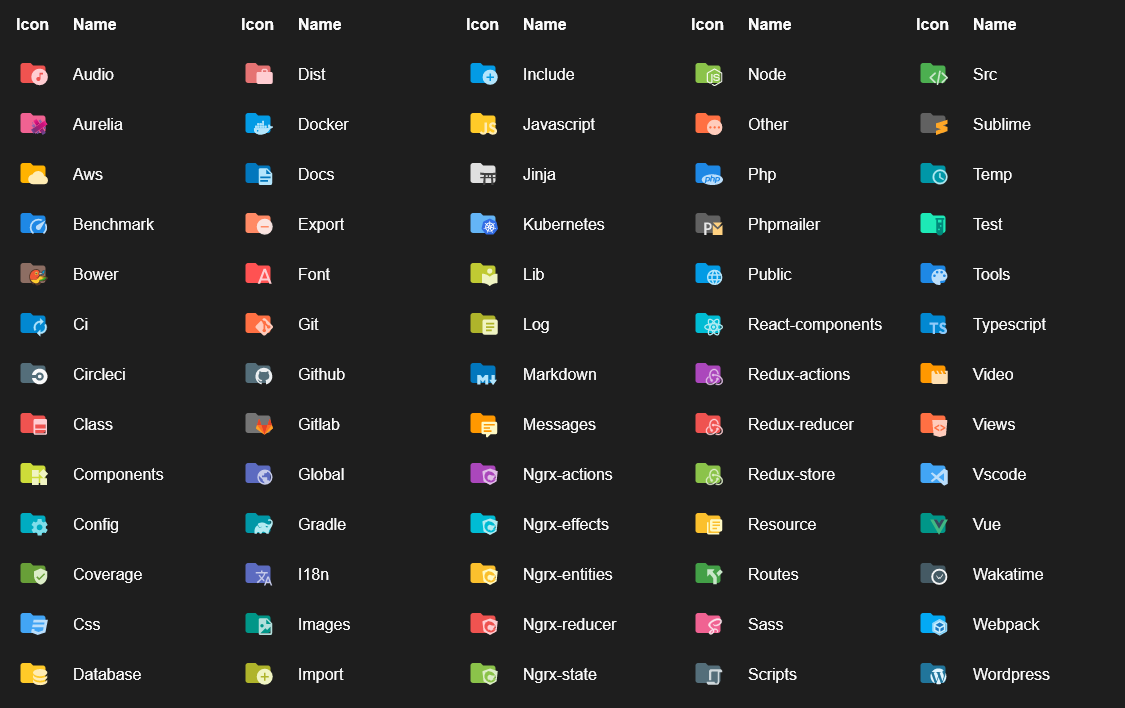
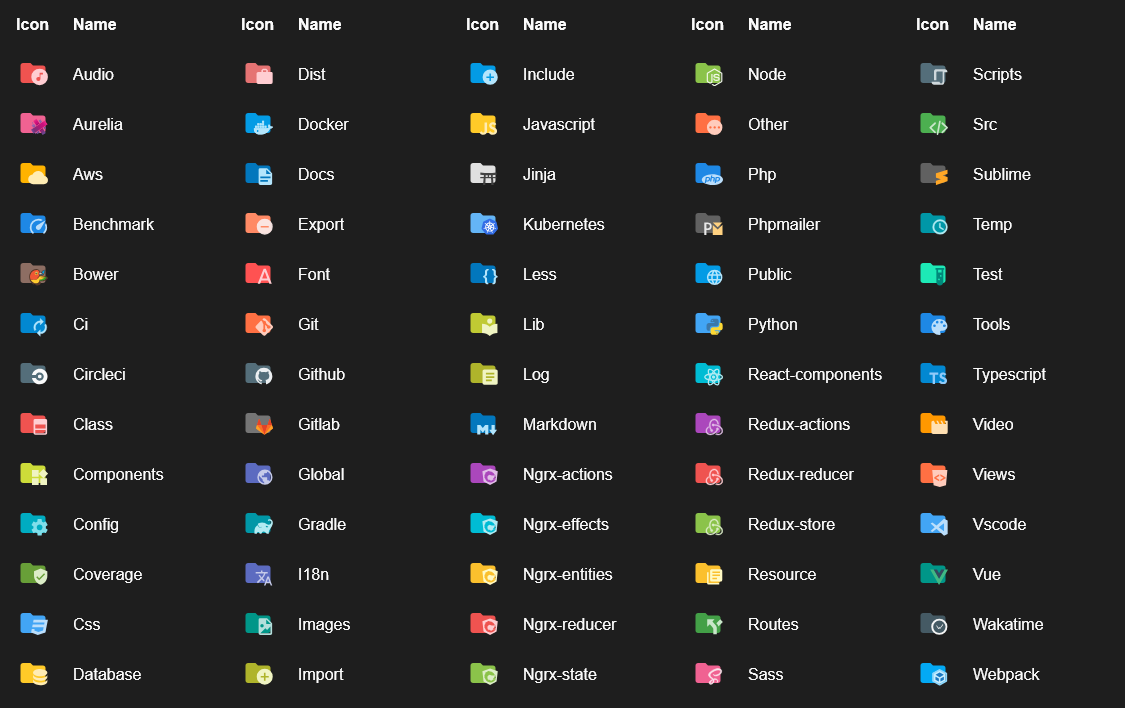
Release 3.3.0

diff --git a/scripts/preview/index.ts b/scripts/preview/index.ts
@@ -25,5 +25,5 @@ const folderThemes = filterDuplicates(folderIcons.map(theme => {
     return [].concat(...folders);
 }).reduce((a, b) => a.concat(b))).map(i => ({ iconName: i, label: i.replace('folder-', '') }));
 
-generatePreview('fileIcons', basicFileIcons, 5, ['key']);
-generatePreview('folderIcons', folderThemes, 5, ['folder', 'folder-expo']);
+generatePreview('fileIcons', basicFileIcons, 5, []);
+generatePreview('folderIcons', folderThemes, 5, ['folder', 'folder-expo', 'folder-messages']);

diff --git a/CHANGELOG.md b/CHANGELOG.md
@@ -1,4 +1,25 @@
 # Changelog
+## 3.3.0 (2018-04-08)
+### New icons
+- Processing (*.pde) ([@JotaroS](https://github.com/JotaroS) in [#229](https://github.com/PKief/vscode-material-icon-theme/pull/229))
+- Storybook ([issue #235](https://github.com/PKief/vscode-material-icon-theme/issues/235))
+- jest.teardown.js ([issue #230](https://github.com/PKief/vscode-material-icon-theme/issues/230))
+- less folder ([issue #207](https://github.com/PKief/vscode-material-icon-theme/issues/207))
+- wepy ([issue #226](https://github.com/PKief/vscode-material-icon-theme/issues/226))
+- META-INF folder
+- python folder
+- manifest.mf
+- xhtml
+
+### Updated icons
+- Vue.js
+- less
+
+### Other improvements
+- Fixed issue with settings change detection ([issue #225](https://github.com/PKief/vscode-material-icon-theme/issues/225))
+- Disabled update notification by default ([issue #225](https://github.com/PKief/vscode-material-icon-theme/issues/225))
+- Added option to disable restart notification ([issue #225](https://github.com/PKief/vscode-material-icon-theme/issues/225))
+
 ## 3.2.6 (2018-03-17)
 ### New icons
 - messages folder
